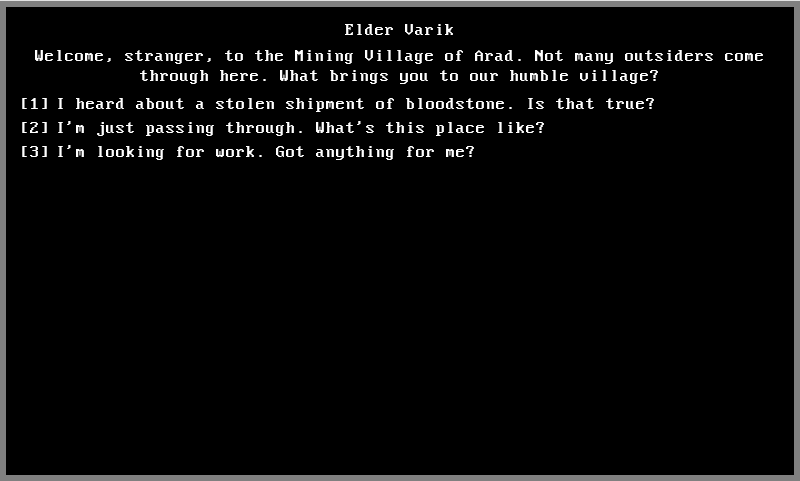
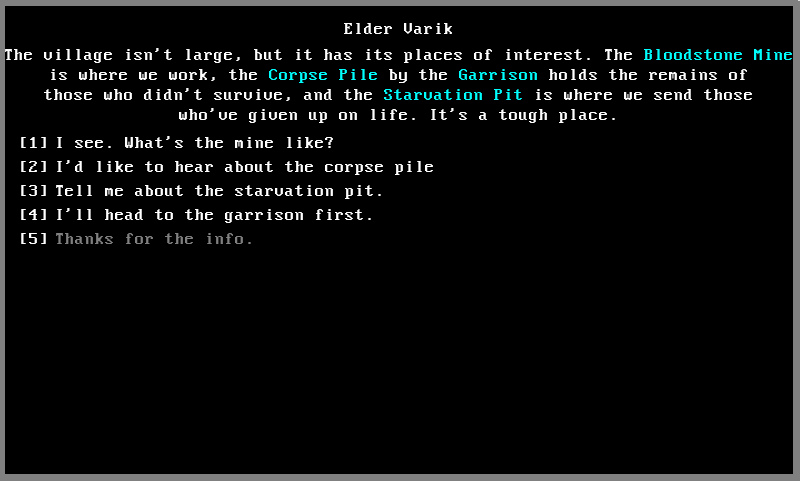
Enable colouring individual words when writing lines to the screen

Changed region(s): [[0.0, 0.0, 1.0, 0.4054], [0.0, 0.4366, 0.4688, 0.5301]]

diff --git a/screen/screen.py b/screen/screen.py
@@ -1,5 +1,5 @@
 import pygame
-from main.constants import *
+from main.colour import *
 from main.messenger import *
 from main.notification import get_notification
 
@@ -35,14 +35,40 @@ class Screen:
         if notification:
             notification.display(self)
 
-    def write(self, text, location, colour=WHITE):
-        t = self.font.render(text, True, colour)
-        self.canvas.blit(t, location)
+    def write(self, text: str, location, colour=WHITE):
+        coloured = self.split_text_on_colours(text, colour)
+        for t, c in coloured:
+            rendered = self.font.render(t, True, c)
+            self.canvas.blit(rendered, location)
+            location = (location[0] + len(t) * FONT_WIDTH, location[1])
 
     def write_center_x(self, text, location, colour=WHITE):
-        t = self.font.render(text, True, colour)
-        new_x = location[0] - (len(text) * FONT_WIDTH) / 2
-        self.canvas.blit(t, (new_x, location[1]))
+        len_text = len(text)
+        for word in COLOUR_STRINGS:
+            len_text -= len(word) * text.count(word)
+        new_x = location[0] - (len_text * FONT_WIDTH) / 2
+        self.write(text, (new_x, location[1]), colour)
+
+    # This is hilariously inefficient when it is called for every write()
+    # I am unsure of a better way to handle this
+    def split_text_on_colours(self, text: str, colour):
+        for word, c in COLOUR_STRINGS.items():
+            if word in text:
+                t = text.split(word, 2)
+                out = [
+                    (t[0], colour),
+                    (t[1], c)
+                ]
+                if len(t) > 2:
+                    out += self.split_text_on_colours(t[2], colour)
+                return out
+        return [(text, colour)]
+
+    def line_length(self, line):
+        out = len(line)
+        for colour_string in COLOUR_STRINGS:
+            out -= len(colour_string) * line.count(colour_string)
+        return out
 
     def draw_border(self):
         self.draw_box((0,0,SCREEN_WIDTH,SCREEN_HEIGHT))
@@ -51,8 +77,8 @@ class Screen:
         pygame.draw.rect(self.canvas, GRAY, rect)
         pygame.draw.rect(self.canvas, BLACK, (rect[0] + width, rect[1] + width, rect[2] - (width*2), rect[3] - (width*2)))
 
-    def draw_line(self, start, end, width=6):
-        pygame.draw.line(self.canvas, GRAY, start, end, width=width)
+    def draw_line(self, start, end, width=6, colour=GRAY):
+        pygame.draw.line(self.canvas, colour, start, end, width=width)
 
     def draw_messages(self, max_messages=8):
         latest = len(messenger.latest_messages)

diff --git a/screen/dialog_screen.py b/screen/dialog_screen.py
@@ -1,6 +1,7 @@
 import pygame
 from screen.screen import Screen
 from main.constants import *
+from main.colour import *
 from main.util import *
 from main.messenger import get_messenger
 from main.clock import get_clock
@@ -30,7 +31,7 @@ class DialogScreen(Screen):
         self.current_node: DialogNode = node
         self.children = self.get_valid_children()
         self.current_node.call_function(self.player)
-        self.lines = fit_text(self.current_node.text, SCREEN_WIDTH - 32)
+        self.lines = fit_text(self.current_node.text, SCREEN_WIDTH - 100)
         self.char_index = 0
         self.finished = 0
         messenger.add(node.text)
@@ -43,7 +44,7 @@ class DialogScreen(Screen):
             if self.frame_timer >= DIALOG_CHAR_TIME:
                 self.frame_timer = 0
                 self.char_index += 1
-            if self.char_index >= len(self.current_node.text):
+            if self.char_index >= self.line_length(self.current_node.text):
                 self.finished = True
 
         for event in events:
@@ -83,17 +84,20 @@ class DialogScreen(Screen):
 
         current = self.char_index
         for line in self.lines:
-            nx = SCREEN_WIDTH / 2 - len(line) * FONT_WIDTH / 2
+            self.write_center_x(line, (SCREEN_WIDTH / 2, y))
 
-            # This sentence is not complete yet
-            if not self.finished and current < len(line):
-                self.write(line[:current], (nx, y))
-                y += FONT_HEIGHT + 2
+            line_len = self.line_length(line)
+            box_start_x = (SCREEN_WIDTH - line_len * FONT_WIDTH) / 2
+            box_start_y = y + (FONT_HEIGHT / 2)
+
+            # Sentence is unfinished, draw a black box over the rendered letters lol
+            if not self.finished and current < line_len:
+                self.draw_line((box_start_x + current * FONT_WIDTH, box_start_y), (SCREEN_WIDTH - 7, box_start_y), width=FONT_HEIGHT, colour=BLACK)
                 break
             else:
-                self.write(line, (nx, y))
-                current -= len(line)
-                y += FONT_HEIGHT + 2
+                current -= line_len
+
+            y += FONT_HEIGHT + 2
         y += 8
 
         if self.finished:

diff --git a/main/util.py b/main/util.py
@@ -1,5 +1,6 @@
 import pygame
 from main.constants import *
+from main.colour import *
 
 NUMBERS = [pygame.K_1, pygame.K_2, pygame.K_3, pygame.K_4, pygame.K_5, pygame.K_6, pygame.K_7, pygame.K_8, pygame.K_9]
 
@@ -8,12 +9,20 @@ def fit_text(text, width=SCREEN_WIDTH-32):
 
     words = iter(text.split())
     lines, current = [], next(words)
+    current_len = 0
     for word in words:
-        if len(current) + 1 + len(word) > max_char:
+        word_len = len(word)
+        for colour_string in COLOUR_STRINGS:
+            if colour_string in word:
+                word_len -= len(colour_string) * word.count(colour_string)
+
+        if current_len + 1 + word_len > max_char:
             lines.append(current)
             current = word
+            current_len = word_len
         else:
             current += " " + word
+            current_len += word_len + 1
     lines.append(current)
     return lines
 

diff --git a/screen/start_screen.py b/screen/start_screen.py
@@ -2,6 +2,7 @@ import pygame
 from screen.screen import Screen
 from screen.world_screen import WorldScreen
 from main.constants import *
+from main.colour import *
 
 class StartScreen(Screen):
     def __init__(self, canvas, world):
@@ -23,7 +24,5 @@ class StartScreen(Screen):
         x = SCREEN_WIDTH / 2
         y = (SCREEN_HEIGHT / 2) - (len(text) * int(FONT_HEIGHT / 2 + 2))
         for line in text:
-            t = self.font.render(line, True, WHITE)
-            r = t.get_rect(center=(x, y))
+            self.write_center_x(line, (x,y), WHITE)
             y += FONT_HEIGHT + 2
-            self.canvas.blit(t, r)

diff --git a/main/colour.py b/main/colour.py
@@ -1,0 +1,24 @@
+BLACK       = (  0,  0,  0)
+WHITE       = (255,255,255)
+RED         = (255,  0,  0)
+GREEN       = (  0,255,  0)
+BLUE        = (  0,  0,255)
+GRAY        = (128,128,128)
+DIMGRAY     = (105,105,105)
+LIGHTGRAY   = (211,211,211)
+LIGHTRED    = (255,204,204)
+ORANGE      = (255,128,  0)
+TURQOISE    = ( 64,224,208)
+CYAN        = (  0,255,255)
+LIGHTCYAN   = (204,255,255)
+
+COLOUR_STRINGS = {
+    ':RED:': RED,
+    ':GREEN:': GREEN,
+    ':BLUE:': BLUE,
+    ':LIGHTRED:': LIGHTRED,
+    ':ORANGE:': ORANGE,
+    ':TURQOISE:': TURQOISE,
+    ':CYAN:': CYAN,
+    ':LIGHTCYAN:': LIGHTCYAN
+}

diff --git a/main/constants.py b/main/constants.py
@@ -16,17 +16,3 @@ FONT_WIDTH = 10
 WORLD_TILE_WIDTH = 12
 WORLD_TILE_HEIGHT = 12
 WORLD_TILE_MODIFIER = 4
-
-BLACK       = (  0,  0,  0)
-WHITE       = (255,255,255)
-RED         = (255,  0,  0)
-GREEN       = (  0,255,  0)
-BLUE        = (  0,  0,255)
-GRAY        = (128,128,128)
-DIMGRAY     = (105,105,105)
-LIGHTGRAY   = (211,211,211)
-LIGHTRED    = (255,204,204)
-ORANGE      = (255,128,  0)
-TURQOISE    = ( 64,224,208)
-CYAN        = (  0,255,255)
-LIGHTCYAN   = (204,255,255)

diff --git a/screen/combat_screen.py b/screen/combat_screen.py
@@ -3,6 +3,7 @@ from screen.screen import Screen
 from screen.game_over_screen import GameOverScreen
 from screen.creature_screen import CreatureScreen
 from main.constants import *
+from main.colour import *
 from main.messenger import get_messenger
 from main.clock import get_clock
 from main.util import draw_sprite, creature_sprites, interface_sprites, ARROW_DOWN, NUMBERS

diff --git a/screen/creature_screen.py b/screen/creature_screen.py
@@ -2,6 +2,7 @@ import pygame
 from screen.screen import Screen
 from creature.creature import Creature
 from main.constants import *
+from main.colour import *
 from main.util import draw_sprite, creature_sprites, fit_text
 
 class CreatureScreen(Screen):

diff --git a/screen/area_screen.py b/screen/area_screen.py
@@ -6,6 +6,7 @@ from screen.quest_screen import QuestScreen
 from world.area import Area
 from world.world import World
 from main.constants import *
+from main.colour import *
 from main.util import fit_text, NUMBERS
 
 class AreaScreen(Screen):

diff --git a/game.py b/game.py
@@ -3,6 +3,7 @@
 import argparse
 import pygame
 from main.constants import *
+from main.colour import *
 from main.messenger import get_messenger
 from main.clock import get_clock
 from creature.creature_factory import get_creature_factory

diff --git a/screen/world_screen.py b/screen/world_screen.py
@@ -1,5 +1,6 @@
 import pygame
 from main.constants import *
+from main.colour import *
 from main.util import world_sprites, creature_sprites, draw_sprite
 from main.clock import get_clock
 from screen.screen import Screen

diff --git a/screen/quest_screen.py b/screen/quest_screen.py
@@ -2,6 +2,7 @@ import pygame
 from screen.screen import Screen
 from creature.player import Player
 from main.constants import *
+from main.colour import *
 from main.util import fit_text
 
 class QuestScreen(Screen):
